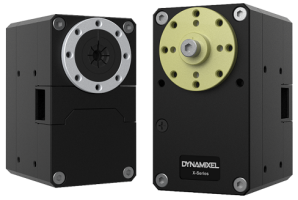
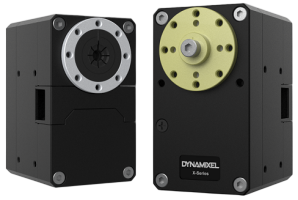
make img backgorund transparent

diff --git a/docusaurus/docusaurus.config.ts b/docusaurus/docusaurus.config.ts
@@ -85,7 +85,7 @@ const config: Config = {
 
   themeConfig: {
     colorMode: {
-      respectPrefersColorScheme: true,
+      respectPrefersColorScheme: false,
     },
     navbar: {
       title: 'ROBOTIS DOCS',
@@ -221,7 +221,7 @@ const config: Config = {
                           <span>AI Sapiens</span>
                         </a>
                         <a class="mega-menu__product" href="/docs/systems/op3/introduction">
-                          <div class="mega-menu__product-thumb"><img src="/img/systems/op3/op3_product.webp" alt="ROBOTIS OP3" /></div>
+                          <div class="mega-menu__product-thumb"><img src="/img/mega-menu/op3.png" alt="ROBOTIS OP3" /></div>
                           <span>ROBOTIS OP3</span>
                         </a>
                         <a class="mega-menu__product" href="/docs/systems/thormang3/introduction">
@@ -436,7 +436,7 @@ const config: Config = {
                           <span>OpenCR 1.0</span>
                         </a>
                         <a class="mega-menu__product" href="/docs/parts/controller/cm-550">
-                          <div class="mega-menu__product-thumb"><img src="/img/parts/controller/cm-550/cm-550_product.webp" alt="CM-550" /></div>
+                          <div class="mega-menu__product-thumb"><img src="/img/parts/controller/cm-550/cm-550_product.png" alt="CM-550" /></div>
                           <span>CM-550</span>
                         </a>
                         <a class="mega-menu__product" href="/docs/parts/controller/cm-530">
@@ -448,23 +448,23 @@ const config: Config = {
                     <div class="mega-menu__panel" data-panel="parts-interface">
                       <div class="mega-menu__grid">
                         <a class="mega-menu__product" href="/docs/parts/interface/u2d2">
-                          <div class="mega-menu__product-thumb"><img src="/img/parts/interface/u2d2_product.webp" alt="U2D2" /></div>
+                          <div class="mega-menu__product-thumb"><img src="/img/mega-menu/u2d2.webp" alt="U2D2" /></div>
                           <span>U2D2</span>
                         </a>
                         <a class="mega-menu__product" href="/docs/parts/interface/u2d2_power_hub">
-                          <div class="mega-menu__product-thumb"><img src="/img/parts/interface/u2d2_power_hub/product_image.webp" alt="U2D2 Power Hub Board" /></div>
+                          <div class="mega-menu__product-thumb"><img src="/img/mega-menu/u2d2-phb.webp" alt="U2D2 Power Hub Board" /></div>
                           <span>U2D2 PHB</span>
                         </a>
                         <a class="mega-menu__product" href="/docs/parts/interface/dxl_bridge">
-                          <div class="mega-menu__product-thumb"><img src="/img/parts/interface/dxl_bridge/dxl_bridge_product.webp" alt="DXL-Bridge" /></div>
+                          <div class="mega-menu__product-thumb"><img src="/img/mega-menu/dxl-bridge.webp" alt="DXL-Bridge" /></div>
                           <span>DXL-Bridge</span>
                         </a>
                         <a class="mega-menu__product" href="/docs/parts/interface/dynamixel_shield">
-                          <div class="mega-menu__product-thumb"><img src="/img/parts/interface/dynamixel_shield/dynamixel_shield.webp" alt="DYNAMIXEL Shield" /></div>
+                          <div class="mega-menu__product-thumb"><img src="/img/mega-menu/dynamixel-shield.webp" alt="DYNAMIXEL Shield" /></div>
                           <span>DYNAMIXEL Shield</span>
                         </a>
                         <a class="mega-menu__product" href="/docs/parts/interface/mkr_shield">
-                          <div class="mega-menu__product-thumb"><img src="/img/parts/interface/mkr_shield/DXL_MKRShield_info01.webp" alt="MKR Shield" /></div>
+                          <div class="mega-menu__product-thumb"><img src="/img/mega-menu/mkr-shield.webp" alt="MKR Shield" /></div>
                           <span>MKR Shield</span>
                         </a>
                       </div>
@@ -500,7 +500,7 @@ const config: Config = {
                     <div class="mega-menu__panel" data-panel="edu-bioloid">
                       <div class="mega-menu__grid">
                         <a class="mega-menu__product" href="/docs/edu/bioloid/premium">
-                          <div class="mega-menu__product-thumb"><img src="/img/edu/bioloid/premium_product.webp" alt="ROBOTIS Premium" /></div>
+                          <div class="mega-menu__product-thumb"><img src="/img/mega-menu/bioloid-premium.webp" alt="ROBOTIS Premium" /></div>
                           <span>ROBOTIS Premium</span>
                         </a>
                       </div>
@@ -508,11 +508,11 @@ const config: Config = {
                     <div class="mega-menu__panel" data-panel="edu-engineer">
                       <div class="mega-menu__grid">
                         <a class="mega-menu__product" href="/docs/edu/engineer/kit1">
-                          <div class="mega-menu__product-thumb"><img src="/img/edu/engineer/kit1/2xl430_intro.webp" alt="Engineer Kit 1" /></div>
+                          <div class="mega-menu__product-thumb"><img src="/img/mega-menu/engineer-kit1.webp" alt="Engineer Kit 1" /></div>
                           <span>Engineer Kit 1</span>
                         </a>
                         <a class="mega-menu__product" href="/docs/edu/engineer/kit2_introduction">
-                          <div class="mega-menu__product-thumb"><img src="/img/edu/engineer/kit2/kit2_main.webp" alt="Engineer Kit 2" /></div>
+                          <div class="mega-menu__product-thumb"><img src="/img/mega-menu/engineer-kit2.webp" alt="Engineer Kit 2" /></div>
                           <span>Engineer Kit 2</span>
                         </a>
                       </div>